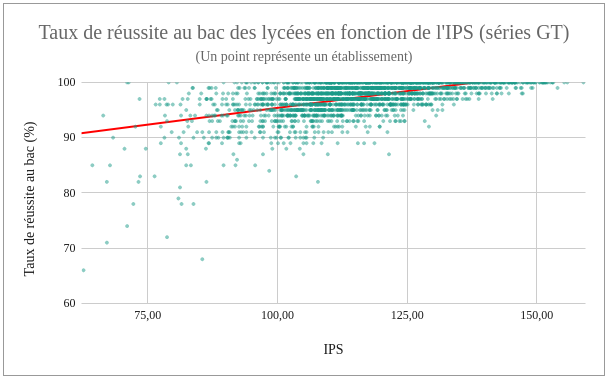
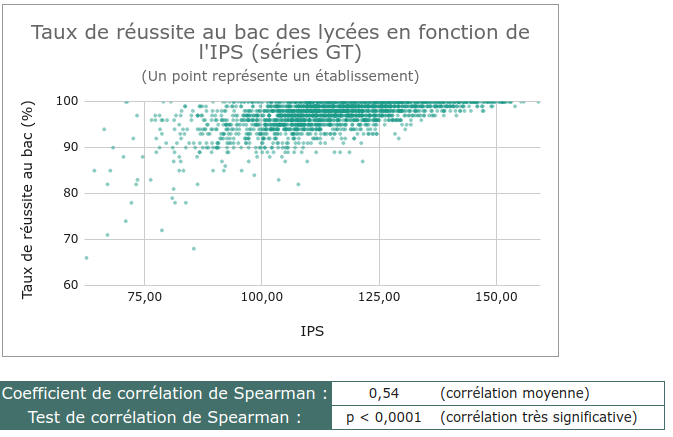
v08_06_23

diff --git a/projets/medecins/index.html b/projets/medecins/index.html
@@ -756,8 +756,8 @@ Cette page est un résumé du travail effectué. Le notebook contenant l'ensembl
 <p><img alt="med_pop_geo_com" src="../../img/medecins/med_pop_geo_com.png" /></p>
 <p>Il restait alors à faire la jointure avec les données sur les bassins de vie. Le problème était que je ne disposais pas de colonnes communes dans les deux tables <em>med_pop_geo_com</em> et <em>bassins</em>. J'ai contourné le problème en faisant une <strong>jointure spatiale</strong>.</p>
 <p>Pour faire cette jointure spatiale, j'ai décidé de calculer les coordonnées du centre géographique de chaque commune. Puis j'ai fait une jointure en sélectionnant pour chaque bassin de vie les communes dont le centre se situe dans le bassin. J'ai utilisé le paramètre <code>contains</code> de la méthode <code>sjoin</code> du module <code>geopandas</code>. J'ai appelé la dataframe finale <em>df_total</em>.</p>
-<div class="highlight"><pre><span></span><code><span class="c1"># Avec les jointures, on se retrouve avec une dataframe et non une geodataframe. Il faut faire une conversion</span>
-<span class="n">med_pop_geo_com</span> <span class="o">=</span> <span class="n">gpd</span><span class="o">.</span><span class="n">GeoDataFrame</span><span class="p">(</span><span class="n">med_pop_geo_com</span><span class="p">)</span>
+<div class="highlight"><pre><span></span><code><span class="c1"># Calcul du centroid de chaque commune / utilisation d&#39;un crs avec coordonnées en metres pour calcul du centroid</span>
+<span class="n">med_pop_geo_com</span> <span class="o">=</span> <span class="n">gpd</span><span class="o">.</span><span class="n">GeoDataFrame</span><span class="p">(</span><span class="n">med_pop_geo_com</span><span class="p">)</span><span class="o">.</span><span class="n">to_crs</span><span class="p">(</span><span class="n">crs</span><span class="o">=</span><span class="mi">3857</span><span class="p">)</span>   
 
 <span class="c1">#Création des centres de chaque commune</span>
 <span class="n">med_pop_geo_com</span><span class="p">[</span><span class="s1">&#39;centre&#39;</span><span class="p">]</span><span class="o">=</span><span class="n">med_pop_geo_com</span><span class="o">.</span><span class="n">geometry</span><span class="o">.</span><span class="n">centroid</span>
@@ -768,9 +768,9 @@ Cette page est un résumé du travail effectué. Le notebook contenant l'ensembl
 <span class="c1">#Renommer la colonne centre avec le nom geometry (pour la jointure avec sjoin)</span>
 <span class="n">med_pop_geo_com</span><span class="o">.</span><span class="n">rename</span><span class="p">(</span><span class="n">columns</span><span class="o">=</span><span class="p">{</span><span class="s1">&#39;centre&#39;</span><span class="p">:</span><span class="s1">&#39;geometry&#39;</span><span class="p">},</span> <span class="n">inplace</span><span class="o">=</span><span class="kc">True</span><span class="p">)</span>
 
-<span class="c1"># Jointure</span>
-<span class="n">df_total</span> <span class="o">=</span> <span class="n">gpd</span><span class="o">.</span><span class="n">sjoin</span><span class="p">(</span><span class="n">bassins</span><span class="p">,</span> <span class="n">med_pop_geo_com</span><span class="p">,</span> <span class="n">how</span><span class="o">=</span><span class="s1">&#39;left&#39;</span><span class="p">,</span> <span class="n">predicate</span><span class="o">=</span><span class="s1">&#39;contains&#39;</span><span class="p">)</span>
-<span class="n">df_total</span><span class="o">.</span><span class="n">head</span><span class="p">()</span>
+<span class="c1">#retour à un crs en degrés</span>
+<span class="n">med_pop_geo_com</span> <span class="o">=</span> <span class="n">med_pop_geo_com</span><span class="o">.</span><span class="n">to_crs</span><span class="p">(</span><span class="n">crs</span><span class="o">=</span><span class="mi">4326</span><span class="p">)</span>   
+<span class="n">med_pop_geo_com</span><span class="o">.</span><span class="n">head</span><span class="p">()</span>
 </code></pre></div>
 <p><img alt="df_total" src="../../img/medecins/df_total.png" /></p>
 <h2 id="calcul-des-densites">Calcul des densités</h2>

diff --git a/projets/ips/index.html b/projets/ips/index.html
@@ -787,8 +787,14 @@
 <p>Pour juxtaposer l'IPS et le taux de réussite au bac d'un même établissement, il faut mettre en relation les deux jeux de données (faire une sorte de jointure de tables). On peut par exemple partir du jeu de données sur le taux de réussite au bac et aller chercher pour chaque établissement l'IPS correspondant. J'ai utilisé pour cela la fonction <code>XLOOKUP</code> qui m'a permis de faire une recherche de l'IPS d'un établissement à partir de son code UAI. </p>
 </details>
 <p><img alt="taux_vs_ips" src="../../img/ips/taux_vs_ips.png" /></p>
-<p>On peut remarquer que dans l'ensemble le taux de réussite est meilleur lorsque l'IPS devient grand, même s'il existe de très bons taux de réussite dans des lycées avec un IPS moyen voire faible. Cependant, le coefficient de corrélation linéaire entre les deux variables n'est que de 0,55. La corrélation est donc assez moyenne mais pas inexistante (corrélation linéaire). On peut d'ailleurs remarquer que le taux de réussite moyen des établissements dont l'IPS est inférieur à 100 est de 94 % contre 98 % pour ceux dont l'IPS est supérieur ou égal à 100. De même, 86 % des lycées à IPS inférieur à 100 ont un taux de réussite supérieur ou égal à 90 % alors qu'ils représentent 99 % des lycées à IPS supérieur ou égal à 100.</p>
-<p><img alt="sup_inf_100" src="../../img/ips/sup_inf_100.png" /></p>
+<p>Le nuage de points ci-dessus permet remarquer que dans l'ensemble le taux de réussite est meilleur lorsque l'IPS devient grand, même s'il existe de très bons taux de réussite dans des lycées avec un IPS moyen voire faible. Cependant, il n'est pas possible de modéliser cela par un modèle de régression linéaire. En effet, les résidus de ce modèle ne suivent pas une distribution normale (voir Q-Q plot ci-dessous) et on constate également une hétéroscédasticité : la variance des résidus est plus importante pour les faibles valeurs prédites (voir graphique des résidus en fonction des valeurs prédites).</p>
+<details class="note">
+<summary>Remarque technique</summary>
+<p>Pour réaliser ces graphiques, il a fallu calculer les résidus (différence entre valeur réelle et valeur prédite), les trier, les normaliser puis les mettre en relation avec les quantiles d'une distribution normale.</p>
+</details>
+<p><img alt="taux_vs_ips" src="../../img/ips/diagnostic.png" /></p>
+<p>J'ai alors réalisé un test de corrélation de Spearman. Celui-ci révèle une corrélation monotone forte entre le taux de réussite au bac et l'IPS (p-value &lt; 0,0001***). Cependant, cette corrélation reste moyenne puisque le coefficient de Spearman est égal à 0,54.</p>
+<p>Des calculs permettent tout de même de remarquer que le taux moyen de réussite dans les lycées à IPS inférieur à 100 est de 94 % alors qu'il est de 98 % dans les lycées à IPS supérieur à 100. De même, 86 % des lycées à IPS inférieur à 100 ont un taux de réussite supérieur à 90 %. Or ce taux s'élève à 99 % pour les lycées à IPS supérieur à 100.</p>
 <p>On peut tout de même émettre des réserves sur cette analyse :</p>
 <ul>
 <li>En 2021, la crise du covid-19 était encore bien présente. Beaucoup de lycées ont utilisé un fonctionnement hybride présentiel-distanciel pendant une bonne partie de l'année scolaire. Pour tenir compte des difficultés d'apprentissage des élèves, les épreuves du bac ont été aménagées. Les taux de réussite sont donc à prendre avec du recul.</li>
